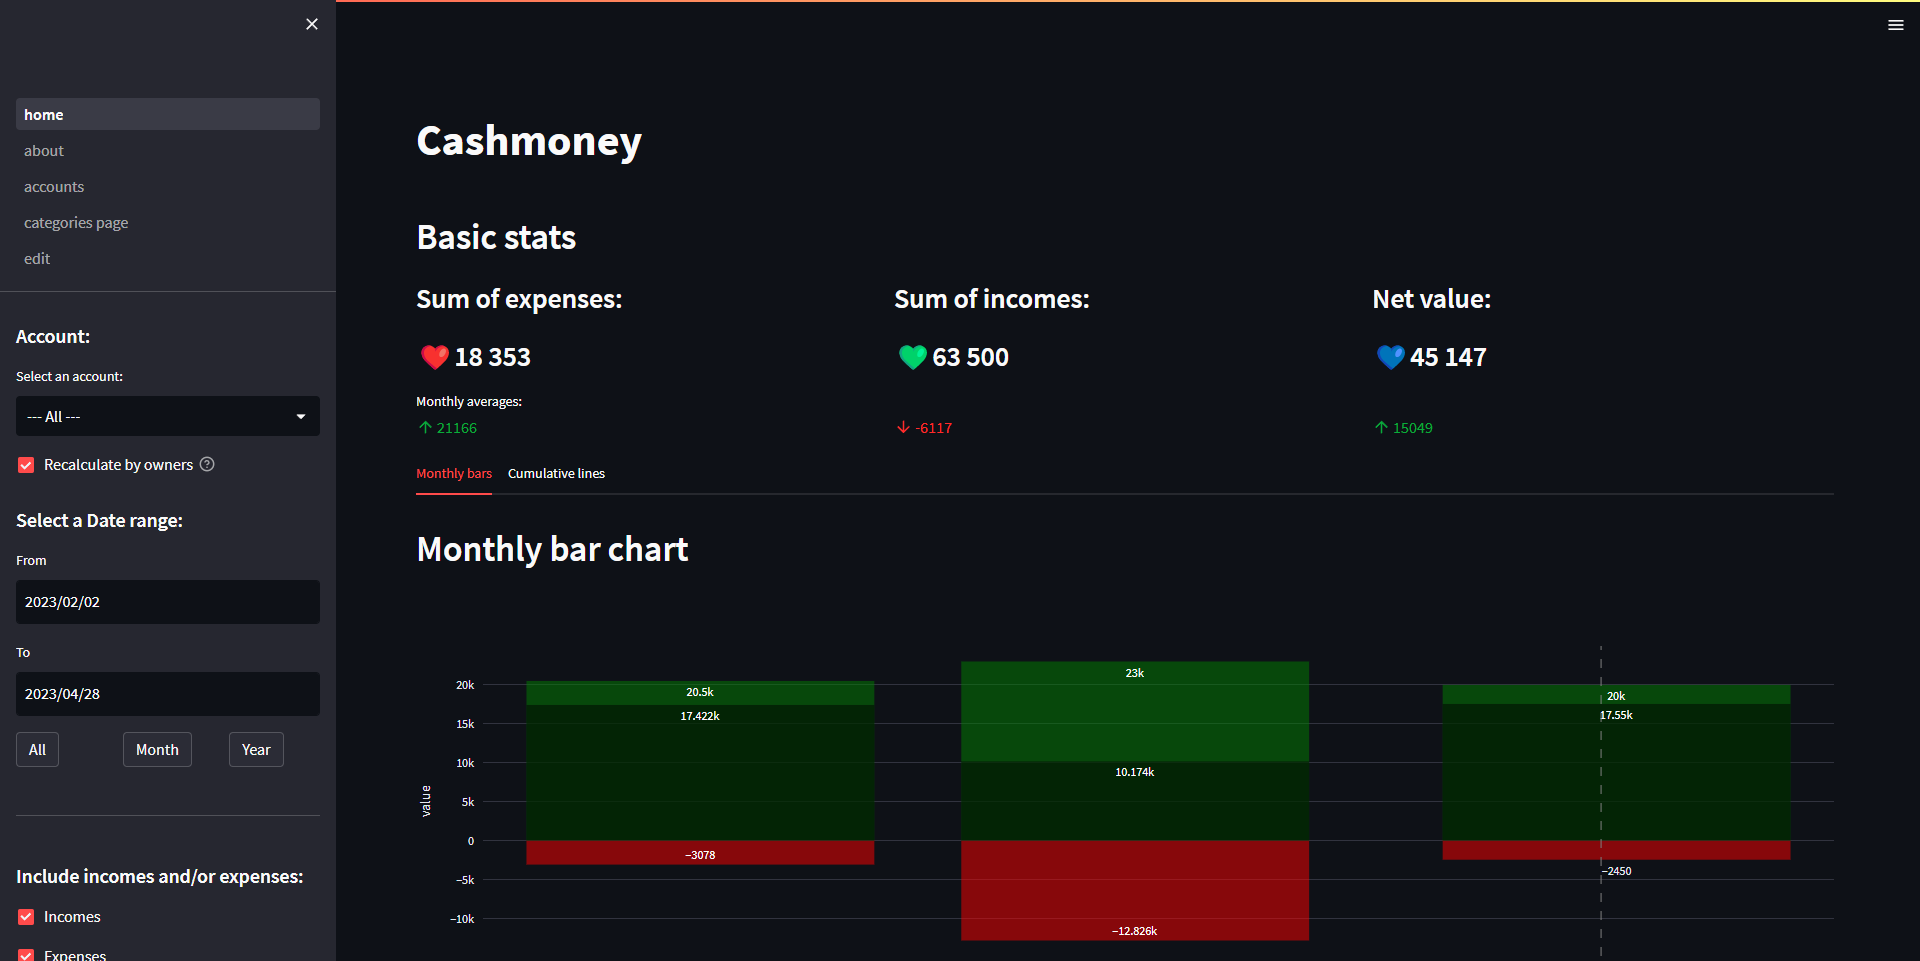
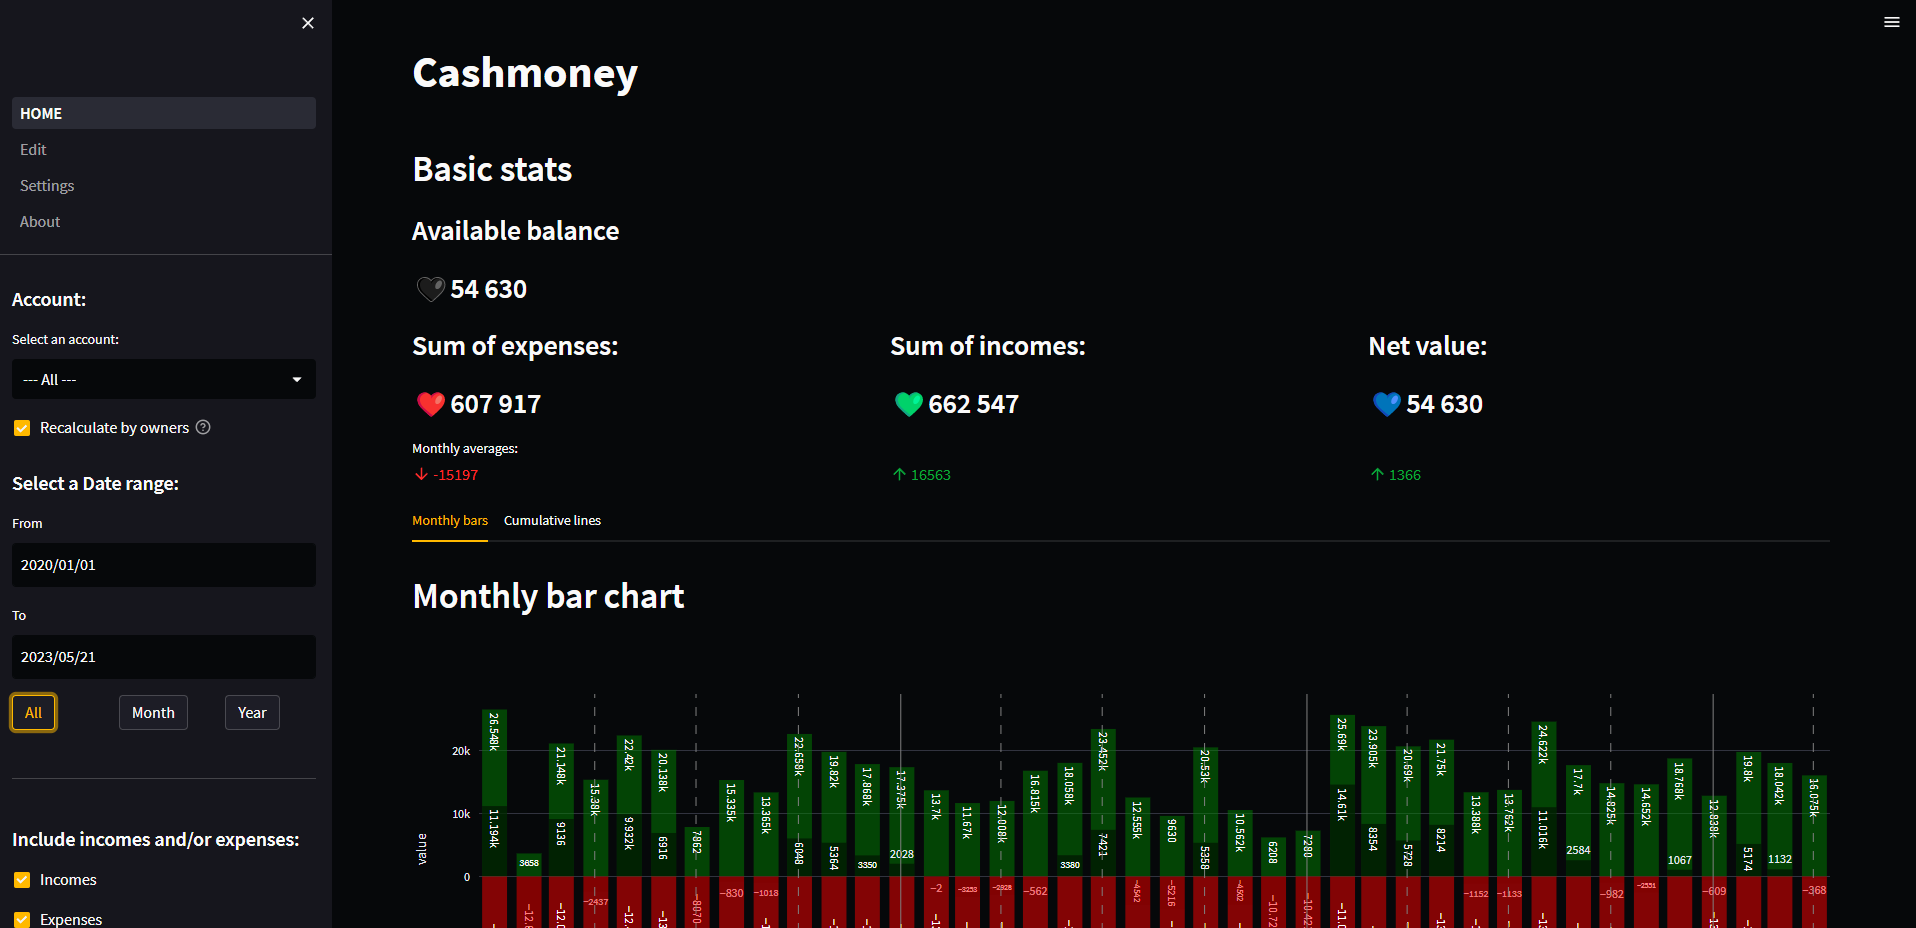
Cashmoney v.2.9 - add screenshots in readme

diff --git a/pages/03_Settings.py b/pages/03_Settings.py
@@ -77,7 +77,7 @@ with tab_cats:
             sub_cat_options = categories[cat_select_str]
         sub_select_str = st.selectbox("To which subcategory?", options=sub_cat_options)
 
-        wni_select_str = st.selectbox("Is this always a Want / Need / Investment / Icnome / UNNASSIGNED",
+        wni_select_str = st.selectbox("Is this always a Want / Need / Investment / Income / UNNASSIGNED",
                                       options=categories_wni)
 
         new_str_add_butt = st.button("ADD", key="str_add")

diff --git a/README.md b/README.md
@@ -75,12 +75,19 @@ To use the app, you need to set up at least one account and upload a csv file wi
 On first startup you'll see this screen where you can set up the app with examples, so you can get a feel for it first. # TODO (Not done yet) You can always reset the app to this state in the settings page.
 ![Homepage-startup][home-startup-screenshot]
 
+## Features
+![home-filters-screenshot][home-filters-screenshot]
+![home-stats-screenshot][home-stats-screenshot]
+![home-bar-screenshot][home-bar-screenshot]
+![home-line-screenshot][home-line-screenshot]
+![home-pie-screenshot][home-pie-screenshot]
 
 <!-- PLANNED -->
 ## Planned features
 - Allow accounts with different currencies and convert them to main account's currency.
 - Import / Export settings button.
-- Make Revolut bank type work. (Revolut's bank statement doesn't have a date a counterparty account number. It might be impossible to implement.)
+- Add tags to transactions. For example, you could tag a transaction as "vacation" but it still could be in a category food, restaurant.
+- Make Revolut bank type work. (Revolut bank statement doesn't have a date a counterparty account number. It might be impossible to implement.)
 - Finish editable table on the Edit data manually tab.
 
 <p align="right">(<a href="#readme-top">back to top</a>)</p>
@@ -89,33 +96,10 @@ On first startup you'll see this screen where you can set up the app with exampl
 
 <!-- MARKDOWN LINKS & IMAGES -->
 <!-- https://www.markdownguide.org/basic-syntax/#reference-style-links -->
-[contributors-shield]: https://img.shields.io/github/contributors/othneildrew/Best-README-Template.svg?style=for-the-badge
-[contributors-url]: https://github.com/othneildrew/Best-README-Template/graphs/contributors
-[forks-shield]: https://img.shields.io/github/forks/othneildrew/Best-README-Template.svg?style=for-the-badge
-[forks-url]: https://github.com/othneildrew/Best-README-Template/network/members
-[stars-shield]: https://img.shields.io/github/stars/othneildrew/Best-README-Template.svg?style=for-the-badge
-[stars-url]: https://github.com/othneildrew/Best-README-Template/stargazers
-[issues-shield]: https://img.shields.io/github/issues/othneildrew/Best-README-Template.svg?style=for-the-badge
-[issues-url]: https://github.com/othneildrew/Best-README-Template/issues
-[license-shield]: https://img.shields.io/github/license/othneildrew/Best-README-Template.svg?style=for-the-badge
-[license-url]: https://github.com/othneildrew/Best-README-Template/blob/master/LICENSE.txt
-[linkedin-shield]: https://img.shields.io/badge/-LinkedIn-black.svg?style=for-the-badge&logo=linkedin&colorB=555
-[linkedin-url]: https://linkedin.com/in/othneildrew
 [home-screenshot]: img/home.png
 [home-startup-screenshot]: img/home_statrup.png
-[Next.js]: https://img.shields.io/badge/next.js-000000?style=for-the-badge&logo=nextdotjs&logoColor=white
-[Next-url]: https://nextjs.org/
-[React.js]: https://img.shields.io/badge/React-20232A?style=for-the-badge&logo=react&logoColor=61DAFB
-[React-url]: https://reactjs.org/
-[Vue.js]: https://img.shields.io/badge/Vue.js-35495E?style=for-the-badge&logo=vuedotjs&logoColor=4FC08D
-[Vue-url]: https://vuejs.org/
-[Angular.io]: https://img.shields.io/badge/Angular-DD0031?style=for-the-badge&logo=angular&logoColor=white
-[Angular-url]: https://angular.io/
-[Svelte.dev]: https://img.shields.io/badge/Svelte-4A4A55?style=for-the-badge&logo=svelte&logoColor=FF3E00
-[Svelte-url]: https://svelte.dev/
-[Laravel.com]: https://img.shields.io/badge/Laravel-FF2D20?style=for-the-badge&logo=laravel&logoColor=white
-[Laravel-url]: https://laravel.com
-[Bootstrap.com]: https://img.shields.io/badge/Bootstrap-563D7C?style=for-the-badge&logo=bootstrap&logoColor=white
-[Bootstrap-url]: https://getbootstrap.com
-[JQuery.com]: https://img.shields.io/badge/jQuery-0769AD?style=for-the-badge&logo=jquery&logoColor=white
-[JQuery-url]: https://jquery.com 
+[home-line-screenshot]: img/line.png
+[home-bar-screenshot]: img/bar.png
+[home-pie-screenshot]: img/pie.png
+[home-stats-screenshot]: img/stats.png
+[home-filters-screenshot]: img/filters.png
